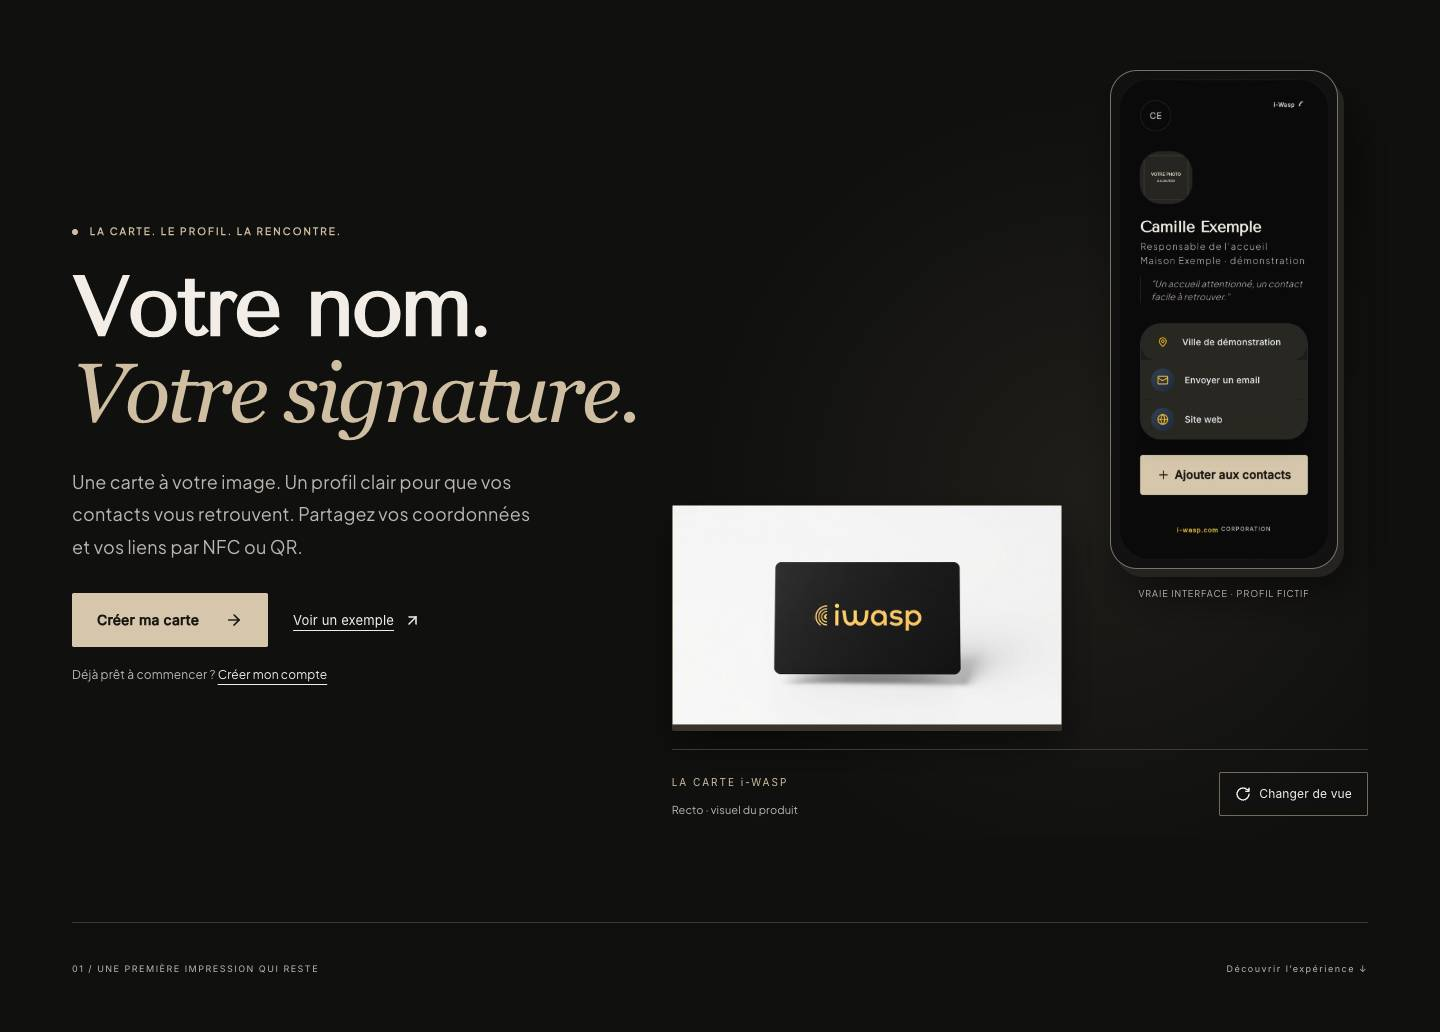
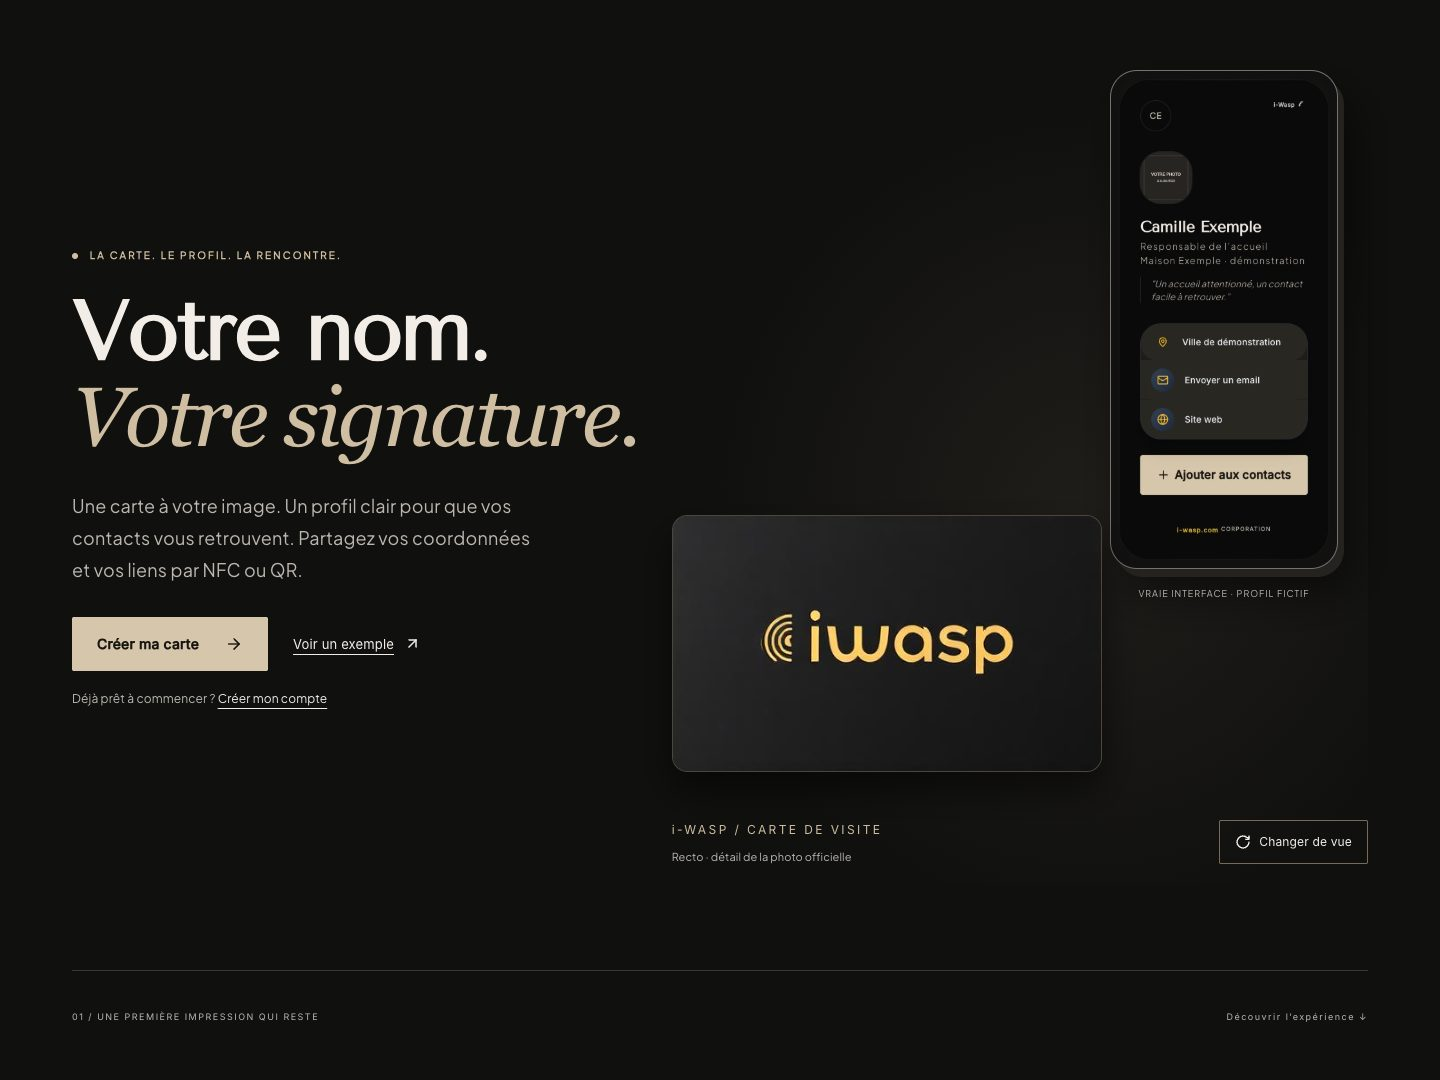
Refine main card visual with close framing of official photography

diff --git a/src/pages/home-draft.css b/src/pages/home-draft.css
@@ -794,3 +794,58 @@
     margin-left: auto;
   }
 }
+/* Non-destructive CSS crop of the official front photo: x=272, y=152, 482×288.
+   The original asset, logo and photographed surface are unchanged. */
+.iw-product .iw-card-stage {
+  max-width: 430px;
+  width: 78%;
+  margin-top: -86px;
+  padding: 0 0 34px;
+  z-index: 1;
+}
+.iw-card-plane {
+  position: relative;
+  aspect-ratio: 482/288;
+  overflow: hidden;
+  border: 1px solid #4c463d;
+  border-radius: 3.6% / 6%;
+  background: #171716;
+  box-shadow: 0 18px 36px #0008;
+  transform: none;
+}
+.iw-card-plane img {
+  position: absolute;
+  width: 212.448%;
+  max-width: none;
+  height: auto;
+  left: -56.432%;
+  top: -52.778%;
+}
+/* The back photo has its own perspective: show it whole instead of applying this crop. */
+.iw-card-stage[data-flipped="true"] .iw-card-plane {
+  aspect-ratio: 1024/576;
+  border-radius: 3px;
+  background: #ece9e3;
+}
+.iw-card-stage[data-flipped="true"] .iw-card-plane img {
+  width: 100%;
+  left: 0;
+  top: 0;
+  mix-blend-mode: multiply;
+}
+.iw-product figcaption {
+  border-top: 0;
+  padding-top: 10px;
+}
+.iw-product-label {
+  font-size: 12px;
+  letter-spacing: 2.4px;
+}
+@media (max-width: 767px) {
+  .iw-product .iw-card-stage {
+    max-width: 430px;
+    width: 100%;
+    margin-top: 34px;
+    padding-bottom: 20px;
+  }
+}

diff --git a/src/components/home/HeroProductVisual.tsx b/src/components/home/HeroProductVisual.tsx
@@ -37,8 +37,10 @@ export function HeroProductVisual() {
       </div>
       <figcaption>
         <div>
-          <span className="iw-product-label">LA CARTE i-WASP</span>
-          <p role="status">{flipped ? "Verso" : "Recto"} · visuel du produit</p>
+          <span className="iw-product-label">i-WASP / CARTE DE VISITE</span>
+          <p role="status">
+            {flipped ? "Verso" : "Recto"} · détail de la photo officielle
+          </p>
         </div>
         <button
           type="button"

diff --git a/docs/site-wallet-draft/REVIEW.md b/docs/site-wallet-draft/REVIEW.md
@@ -100,7 +100,7 @@ Le test navigateur attend maintenant la fin du fondu d’entrée du formulaire a
 
 Les actions click/clavier et les déclencheurs de pressions longues sont neutralisés dans le profil de démonstration. Une région status explique qu’aucun contact, fichier ou Wallet n’est créé. Les captures proviennent de Chrome exécutant ces vrais composants, sans UI générée. Un défaut existant de LocationPicker est corrigé : le déclencheur inline est un bouton natif, accessible au clavier, au lieu d’un div portant aria-expanded.
 
-La scène bleue Higgsfield a été retirée de l’interface et de l’arbre du brouillon suivant le retour du propriétaire. Sa provenance reste archivée localement dans media-source/ et dans Library. Elle n’est jamais présentée comme une photographie réelle. Les deux packshots officiels sont conservés, avec leur fond photographique original, sans rotation ni double perspective. Le vrai écran Signature a été recapturé sans portrait artificiel.
+La scène bleue Higgsfield a été retirée de l’interface et de l’arbre du brouillon suivant le retour du propriétaire. Sa provenance reste archivée localement dans media-source/ et dans Library. Elle n’est jamais présentée comme une photographie réelle. Les deux packshots officiels sont conservés, à partir de leur photographie originale, sans rotation ni double perspective. Le vrai écran Signature a été recapturé sans portrait artificiel.
 
 Contenus sémantiques uniques dans `/demo` : usages accueil hôtelier et restauration, coordonnées utiles et liens vers menu/réservation existants. Aucun faux moteur de réservation ni garantie de classement. Direction validée pour cette itération : noir profond, graphite, champagne discret ; typographie affirmée « Votre nom. Votre signature. », composition éditoriale et cadres sobres. Logo produit doré conservé. Aucun achat, génération supplémentaire, mise à jour de dépendances ou déploiement effectué par cette tâche.
 
@@ -113,3 +113,11 @@ CI GitHub : les workflows inspectés sont manuels. Aucun résultat vide/pending 
 ## Retour propriétaire : direction noire et photo réelle attendue
 
 La direction blanche/bleue précédente est remplacée dans l’accueil et la démonstration. Aucun nouveau visage généré, aucune photo client récupérée, aucune image stock présentée comme cliente. Les cinq captures sont remplacées dans les mêmes fichiers et les mêmes identités Library ; leurs versions précédentes restent l’historique. La vraie photo autorisée constitue le seul élément visuel demandé encore manquant. Aucun coût supplémentaire ni changement commercial.
+
+## Visuel principal de la carte — cadrage rapproché
+
+Révision limitée à HeroProductVisual et sa présentation CSS. Le grand panneau blanc est remplacé par un cadrage de détail de la photographie officielle frontale : fenêtre source x=272, y=152, largeur 482, hauteur 288. Logo et surface photographiée inchangés ; fichier source SHA-1 toujours 08131e45f961928e8e26244455e4c206ef18496b. Aucun fichier raster retouché, aucune image générée, aucune dépense ni promesse de matériau/finition. La légende dit explicitement « détail de la photo officielle ». L’encadrement et l’ombre sont des éléments de présentation CSS.
+
+La photo verso conserve son cadrage complet et sa perspective d’origine. Le changement de vue est utilisable au clavier, sans animation de faux retournement. Mobile : carte séparée du téléphone, aucune légende masquée. Contrôles affectés : lint global, typecheck app, build/PWA, scripts navigateur accueil/formulaire/Wallet et contrôle de débordement aux largeurs 360/390/768/1440. Aucun changement aux tarifs, Wallet, profil, formulaire ou données client.
+
+Livrables : card-closeup.jpg (gros plan de la composition native, ~430 px de large), mobile-hero.jpg, desktop-hero.jpg. Le cadrage est limité par la résolution de la photographie fournie ; pour une vue ou un éclairage produit véritablement nouveau, une nouvelle photo autorisée ou une retouche raster validée serait nécessaire.
